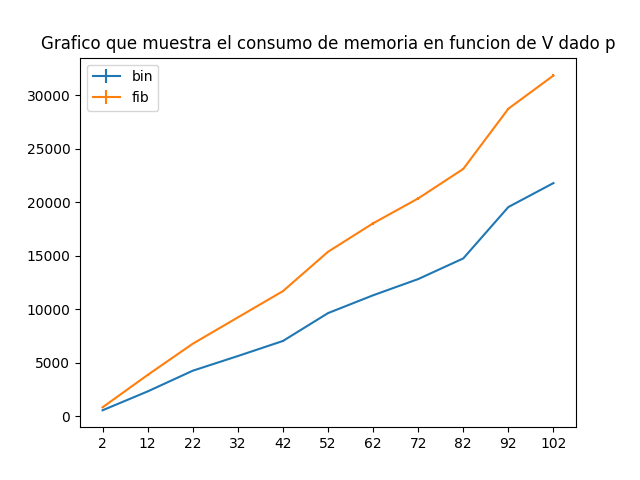
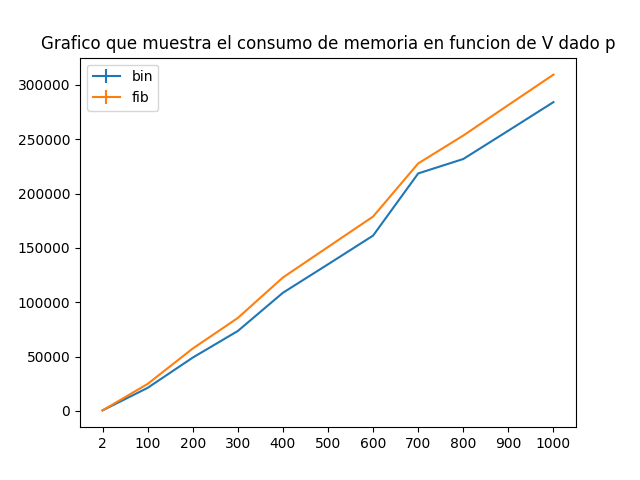
pasa los test lpm

diff --git a/T2/src/priorityQueue.py b/T2/src/priorityQueue.py
@@ -57,6 +57,7 @@ class BinaryHeap(PriorityQueueInterface):
             node_to_move.set_key(k)
         self._float_node_up(node_to_move.get_pos())
     
+    
     def _float_node_up(self, node_pos):
         child_pos = node_pos
         parent_pos = self._get_parent_node_pos(node_pos)
@@ -153,33 +154,19 @@ class FibonacciHeap(PriorityQueueInterface):
         self._add_to_queue(new_node)
         self.elements_in_order[x - 1] = new_node
         self.current_elements += 1
-        #if self.min.key > k:
-        #    self.min = new_node
     
 
     def empty(self):
-        # print('is heap empty?')
         return self.min == None
     
 
     def decrease_key(self, x, k):
         changed_node = self.elements_in_order[x - 1]
         changed_node.set_value(k)
-        if changed_node.parent != None:
-            self._cut(changed_node)
+        self._cut(changed_node)
         if k < self.min.key:
             self.min = changed_node
-            print('min node is now ({}, {})'.format(changed_node.element, changed_node.key))
 
-    def _cut(self, node):
-        parent_node = node.get_parent()
-        if parent_node != None:
-            node.isolate()
-            self._add_to_queue(node)
-            if parent_node.is_marked():
-                self._cut(parent_node)
-            else:
-                parent_node.mark()
 
     def extract_min(self):
         if self.min == None:
@@ -201,8 +188,6 @@ class FibonacciHeap(PriorityQueueInterface):
             while aux_queue[transition_tree.degree] != None:
                 transition_tree = self._fuse(transition_tree, aux_queue[transition_tree.degree])
                 aux_queue[transition_tree.degree - 1] = None
-               # print('transition tree has degree {} and aux_queue has size {}'.format(transition_tree.degree, len(aux_queue)))
-               # print('total number of elements is {}'.format(self.current_elements))
             aux_queue[transition_tree.degree] = transition_tree
         
         # redefine heap
@@ -212,6 +197,17 @@ class FibonacciHeap(PriorityQueueInterface):
                 self._add_to_queue(node)
                 
         return former_min.element, former_min.key
+
+
+    def _cut(self, node):
+        parent_node = node.get_parent()
+        if parent_node != None:
+            node.isolate()
+            self._add_to_queue(node)
+            if parent_node.is_marked():
+                self._cut(parent_node)
+            else:
+                parent_node.mark()
 
 
     def _fuse(self, tree_1, tree_2):
@@ -224,15 +220,15 @@ class FibonacciHeap(PriorityQueueInterface):
         greater_tree.add_child(lesser_tree)
         return greater_tree
     
+
     def _add_to_queue(self, node):
         if self.min != None:
             self.min.append_node(node)
             if self.min.key > node.key:
                 self.min = node
-                print('min node is now ({}, {})'.format(node.element, node.key))
         else:
             self.min = node
-            print('min node is now ({}, {})'.format(node.element, node.key))
+
 
     def _extract_list(self, node):
         if node != None:
@@ -241,6 +237,7 @@ class FibonacciHeap(PriorityQueueInterface):
             self._add_to_queue(node)
             self._extract_list(right_node)
     
+
     def _roots_array(self):
         if self.min != None:
             return self.min.array_of_left_elements() + self.min.array_of_right_elements()

diff --git a/T2/src/trees.py b/T2/src/trees.py
@@ -110,21 +110,24 @@ class BinomNode:
     
     def array_of_right_elements(self):
         arr = []
+        current_node = self
         next_node = self.right
         while next_node != None:
-            print('receiving node to the right ({}, {})'.format(next_node.element, next_node.key))
-            next_node.isolate()
+            #print('receiving node to the right ({}, {})'.format(next_node.element, next_node.key))
             arr.append(next_node)
-            next_node = next_node.right
+            current_node = next_node
+            next_node = current_node.right
+            current_node.isolate()
         return arr
     
     def array_of_left_elements(self):
         arr = []
         next_node = self.left
         while next_node != None:
-            print('receiving node to the right ({}, {})'.format(next_node.element, next_node.key))
-            next_node.isolate()
+            #print('receiving node to the left ({}, {})'.format(next_node.element, next_node.key))
             arr.append(next_node)
-            next_node = next_node.left
+            current_node = next_node
+            next_node = current_node.left
+            current_node.isolate()
         return arr
         

diff --git a/T2/experimentos/get_k.py b/T2/experimentos/get_k.py
@@ -2,8 +2,7 @@ import statistics
 import time
 import numpy as np
 from src.generator_base import generator
-from src.priorityQueue import BinaryHeap#, FibonacciHeap
-from src.otherQueue import aFibonacciHeap as FibonacciHeap
+from src.priorityQueue import BinaryHeap, FibonacciHeap
 from src.dijkstra_base import dijkstra
 import tracemalloc
 
@@ -11,11 +10,13 @@ MAX = 26
 v = 100
 super_dict = {}
 p_range = [p/10 for p in range(1, 11)]
-v_range = range(2, 103, 10)
-"""
-FIJAR V Y PROBAR CON DIFERENTES P
-"""
+v_range = list(range(0, 1001, 100))
+v_range[0] = 2
+
 def find_p(heap):
+    """
+    FIJAR V Y PROBAR CON DIFERENTES P
+    """
     out = {}
     for p in p_range:
         list_k = []
@@ -39,11 +40,11 @@ def find_p(heap):
     return out
 
 
-"""
-FIJAR P Y PROBAR CON DIFERENTES V
-"""
 
 def find_V(p, heap):
+    """
+    FIJAR P Y PROBAR CON DIFERENTES V
+    """
     out = {}
     for v in v_range:
         list_k = []

diff --git a/T2/src/generator_base.py b/T2/src/generator_base.py
@@ -31,8 +31,8 @@ def generator(nodes, density, toPrint=False):
                 nodes_out.append(' '.join([str(i), str(j), str(edge_weight)]))
                 total_edges += 1
     start = random.randint(1, nodes)
-    output = [' '.join([str(nodes), str(total_edges)])] + nodes_out + [start]
     if toPrint:
+        output = [' '.join([str(nodes), str(total_edges)])] + nodes_out + [start]
         return output, graph, start
     else:
         return graph, start

diff --git a/T2/test/test_fibonacci_heap.py b/T2/test/test_fibonacci_heap.py
@@ -80,7 +80,7 @@ class TestFibonacciHeap(unittest.TestCase):
         self.assertFalse(self.heap.empty())
         self.assertEqual(extracted[0], 4)
         extracted = self.heap.extract_min()
-        self.assertTrue(self.heap.empty())
+        self.assertFalse(self.heap.empty())
         self.assertEqual(extracted[0], 3)
         extracted = self.heap.extract_min()
         self.assertTrue(self.heap.empty())

diff --git a/T2/xd.py b/T2/xd.py
@@ -1,7 +1,5 @@
-import tracemalloc
 
-tracemalloc.start()
-xd = range(1,10)
-current, peak = tracemalloc.get_traced_memory()
-print(f"Current memory usage is {current / 10**6}MB; Peak was {peak / 10**6}MB")
-tracemalloc.stop()
+
+xd = list(range(1,10))
+for i in xd:
+    print(i)

diff --git a/T2/src/utils.py b/T2/src/utils.py
@@ -7,7 +7,6 @@ def graph_to_dict(d):
     for i in range(aristas):
         index = 3*(i+1) - 1
         u, v, s = int(g[index]), int(g[index+1]), int(g[index+2])
-        print(u, v, s)
         graph[u][v] = s
         graph[v][u] = s
     return graph
